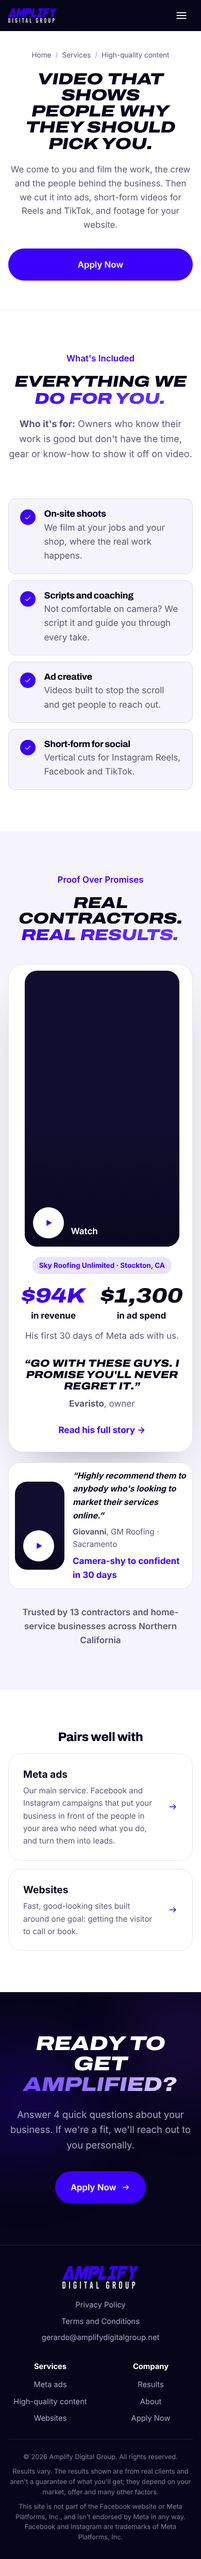
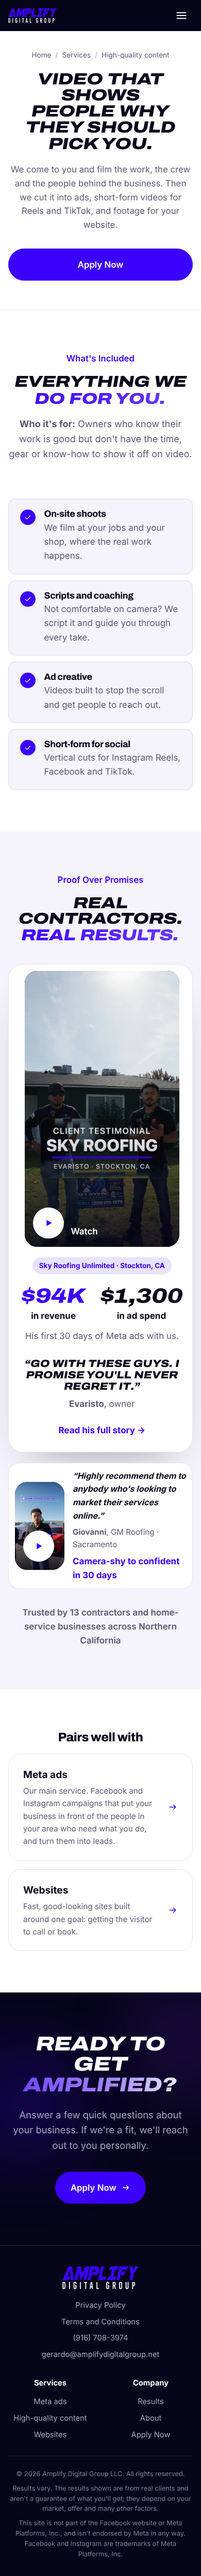
Add phone and LLC name; service pages pre-check their service in the quiz
Claude-Session: https://claude.ai/code/session_015CPZ5DYGikFz2FzN5tbYzs

Changed region(s): [[0.0, 0.3427, 1.0, 0.9658], [0.0923, 0.0312, 0.9231, 0.3116], [0.6769, 0.9035, 0.7692, 0.9658]]

diff --git a/src/data/site.ts b/src/data/site.ts
@@ -9,12 +9,13 @@
 
 export const site = {
   name: "Amplify Digital Group",
+  legalName: "Amplify Digital Group LLC",
   shortName: "Amplify",
   url: "https://amplifydigitalgroup.net",
   description:
     "Amplify Digital Group runs Meta ads for service businesses, backed by high-quality content and websites built to turn clicks into booked jobs.",
   email: "gerardo@amplifydigitalgroup.net",
-  phone: { display: "", tel: "" }, // e.g. { display: "(916) 555-0100", tel: "+19165550100" }
+  phone: { display: "(916) 708-3974", tel: "+19167083974" },
   // Every "get started" button goes to the quiz funnel
   ctaUrl: "/quiz/",
   // Meta Pixel ID (Events Manager → Data sources). When set, every page

diff --git a/src/data/quiz.ts b/src/data/quiz.ts
@@ -41,6 +41,8 @@ export const quiz = {
     },
   } satisfies Question,
   serviceDefault: "Meta Ads",
+  // Service page slug -> answer to pre-check, from links like /quiz/?service=websites
+  serviceBySlug: { "meta-ads": "Meta Ads", content: "High-Quality Content", websites: "A Website" } as Record<string, string>,
   // Every question qualifies the lead. Easy ones first; the money questions
   // come last, once people have momentum.
   questions: [

diff --git a/src/lib/schema.ts b/src/lib/schema.ts
@@ -62,6 +62,7 @@ function orgNode() {
     description: site.description,
     logo: { "@type": "ImageObject", "@id": ids.logo, url: `${SITE}/brand/logo.png`, width: 1024, height: 1024 },
     image: `${SITE}/og.png`,
+    legalName: site.legalName,
     email: site.email,
     knowsAbout: ["Meta advertising", "Facebook advertising", "Instagram advertising", "Lead generation", "Video production", "Web design"],
     hasOfferCatalog: {
